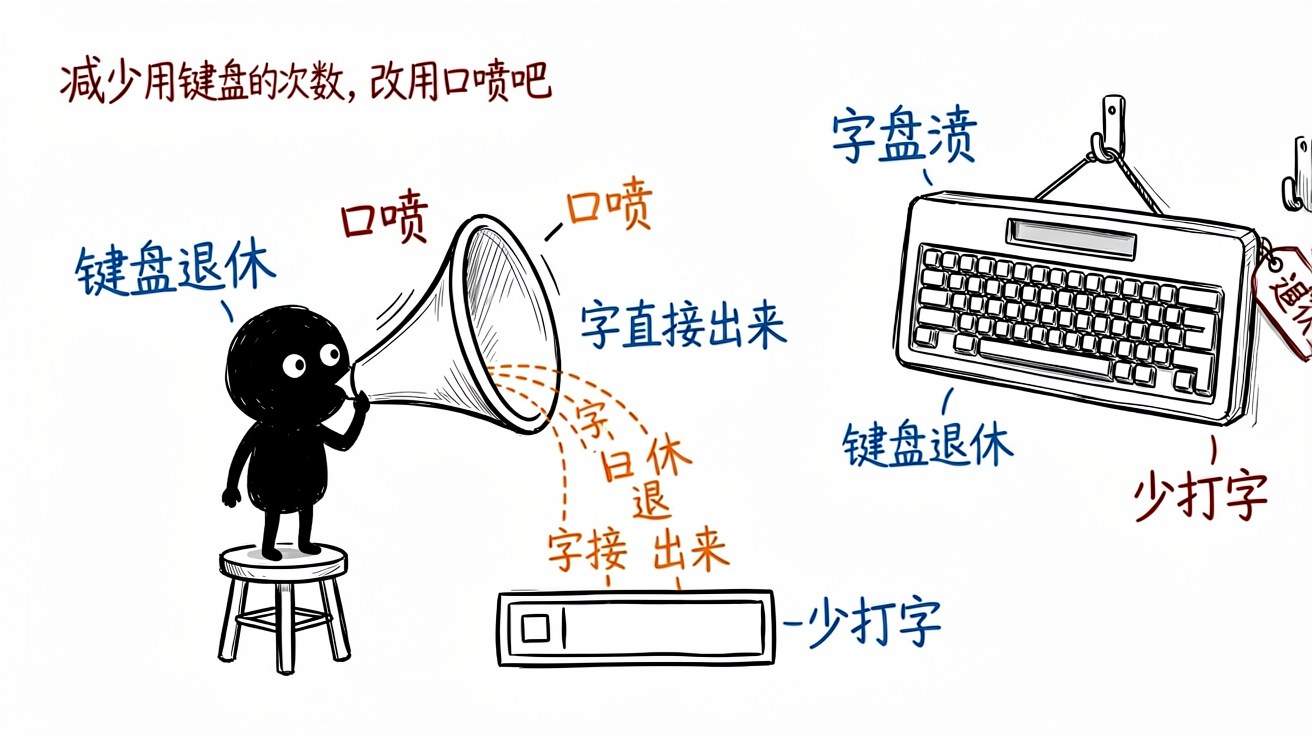
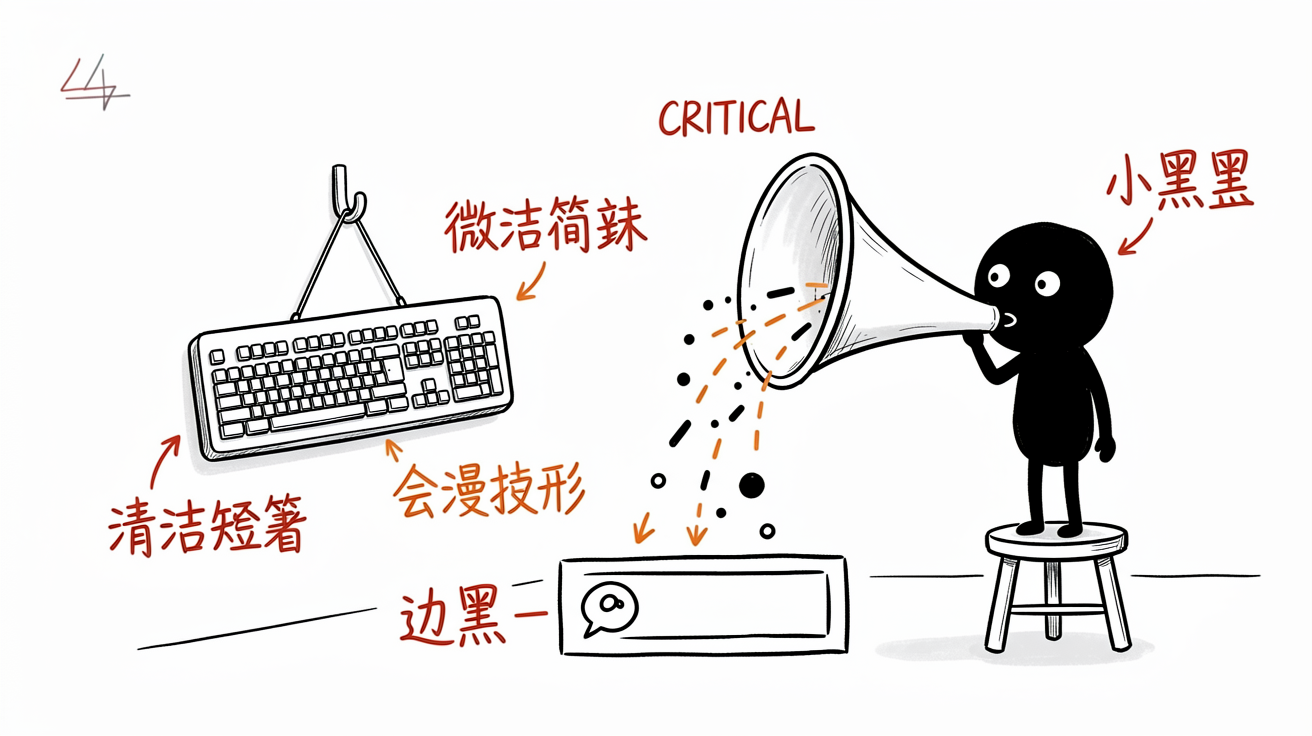
docs(website): 重做小黑配图 v3（减少标注防乱码）+ 优化图片说明

Changed region(s): [[0.0312, 0.125, 1.0, 0.9062], [0.0312, 0.0625, 0.4375, 0.1562], [0.5625, 0.625, 0.5938, 0.6875]]

diff --git a/README.en.md b/README.en.md
@@ -8,7 +8,7 @@ Audio Talk AI is a desktop voice input tool. It records audio with a global hotk
 
 Supports multiple ASR providers with one-click switching in the TUI.
 
-![Speak, don't type](assets/readme-illustrations/01-speak-not-type.png)
+![Concept: old keyboard hangs on wall retired, 小黑 speaks into a funnel, text drops into input box](assets/readme-illustrations/01-speak-not-type.png)
 
 ## Screenshots
 
@@ -26,7 +26,7 @@ Supports multiple ASR providers with one-click switching in the TUI.
 
 ## Features
 
-![Voice pipeline](assets/readme-illustrations/02-voice-pipeline.png)
+![Pipeline: press F9 hotkey → voice enters ASR black-box machine → text recognized → auto-submitted to input box](assets/readme-illustrations/02-voice-pipeline.png)
 
 - Global hotkey recording with `toggle` (press to start, press again to stop) and `hold` (press and speak) modes.
 - 12 ASR providers with dynamic switching in TUI:
@@ -48,7 +48,7 @@ Supports multiple ASR providers with one-click switching in the TUI.
 - ASR hotwords for project names, people names, English terms, and domain-specific vocabulary.
 - Usage statistics: total sessions, total characters, average speed, and recent speed.
 
-![Switch providers](assets/readme-illustrations/03-switch-ears.png)
+![Concept: 小黑 on a ladder swaps an ear-bulb into listening machine, 4 spare ears on a rack (12 ASR providers)](assets/readme-illustrations/03-switch-ears.png)
 
 ## Platform Status
 
@@ -107,7 +107,7 @@ audio-talk-ai --backend x11      # force X11
 
 Press `Ctrl+]` or `b` to detach — Audio Talk AI keeps running in the background (hotkeys still work). Press `q` to end the session. Requires `fzf` for session selection (auto-connects when only one session exists).
 
-![Detachable session](assets/readme-illustrations/04-detach-balloon.png)
+![Concept: TUI floats away as balloon, 小黑 holds the string and keeps speaking, hotkeys still work](assets/readme-illustrations/04-detach-balloon.png)
 
 ```bash
 audio-talk-ai --d          # start a detachable TUI session
@@ -150,7 +150,7 @@ Starting from v0.1.0, API secrets in the config are stored encrypted with **AES-
 - **Backup & migration**: treat `config.toml` and `key` as a pair. Copying only the encrypted config without `key` (or lacking `key` on another machine) makes the ciphertext undecryptable and the program won't start.
 - **Health check**: run `audio-talk-ai --doctor` and look at the "密钥加密" (secret encryption) item to confirm there are no plaintext secrets and the key file permissions are correct.
 
-![Key pair](assets/readme-illustrations/05-key-pair.png)
+![Concept: locked config.toml box and key tied together with string, 小黑 carries them as a pair, lose one = locked out](assets/readme-illustrations/05-key-pair.png)
 
 ### Basic Config
 

diff --git a/README.md b/README.md
@@ -8,7 +8,7 @@ Audio Talk AI 是一个面向桌面环境的语音输入工具。它通过全局
 
 支持多个语音识别服务商，可在 TUI 中一键切换。
 
-![口喷代替键盘](assets/readme-illustrations/01-speak-not-type.png)
+![概念图：旧键盘挂墙退休，小黑对着漏斗说话，文字从漏斗底部掉进输入框](assets/readme-illustrations/01-speak-not-type.png)
 
 ## 截图
 
@@ -26,7 +26,7 @@ Audio Talk AI 是一个面向桌面环境的语音输入工具。它通过全局
 
 ## 功能
 
-![语音工作流](assets/readme-illustrations/02-voice-pipeline.png)
+![流程图：按 F9 热键 → 声音进入 ASR 黑盒机器 → 识别出文字 → 自动上屏到输入框](assets/readme-illustrations/02-voice-pipeline.png)
 
 - 全局快捷键录音，支持 `toggle`（按一下开始、再按一下停止）和 `hold`（按住说话）两种模式。
 - 支持 12 个语音识别服务商，可在 TUI 中动态切换：
@@ -48,7 +48,7 @@ Audio Talk AI 是一个面向桌面环境的语音输入工具。它通过全局
 - 热词增强识别，适合项目名、人名、英文术语和专有名词。
 - 录音历史统计，包括历史次数、总字数、平均速度和最近速度。
 
-![换服务商](assets/readme-illustrations/03-switch-ears.png)
+![概念图：小黑站在梯子上给听音机器换耳朵，旁边挂着 4 只备用耳朵（12 家 ASR 服务商）](assets/readme-illustrations/03-switch-ears.png)
 
 ## 平台状态
 
@@ -107,7 +107,7 @@ audio-talk-ai --backend x11      # 强制 X11
 
 启动后按 `Ctrl+]` 或 `b` 断开，Audio Talk AI 继续后台运行（热键仍有效）。按 `q` 结束会话。需要 `fzf` 来选择会话（仅一个会话时自动连接）。
 
-![可断开会话](assets/readme-illustrations/04-detach-balloon.png)
+![概念图：TUI 界面变成气球飘走，小黑手里牵着线继续说话，热键仍有效](assets/readme-illustrations/04-detach-balloon.png)
 
 ```bash
 audio-talk-ai --d          # 启动可断开的 TUI 会话
@@ -150,7 +150,7 @@ port = 8391
 - **备份与迁移**：`config.toml` 与 `key` 必须**成对**处理。只复制密文而丢失 `key`，或在其他机器上缺少 `key`，都会导致密文无法解密、程序无法启动。
 - **体检**：运行 `audio-talk-ai --doctor` 可查看"密钥加密"一项，确认是否存在明文密钥、钥匙文件权限是否正确。
 
-![密钥成对](assets/readme-illustrations/05-key-pair.png)
+![概念图：config.toml 上锁纸箱和钥匙用绳拴成一对，小黑背着走，丢一个就打不开](assets/readme-illustrations/05-key-pair.png)
 
 ### 基本配置
 
